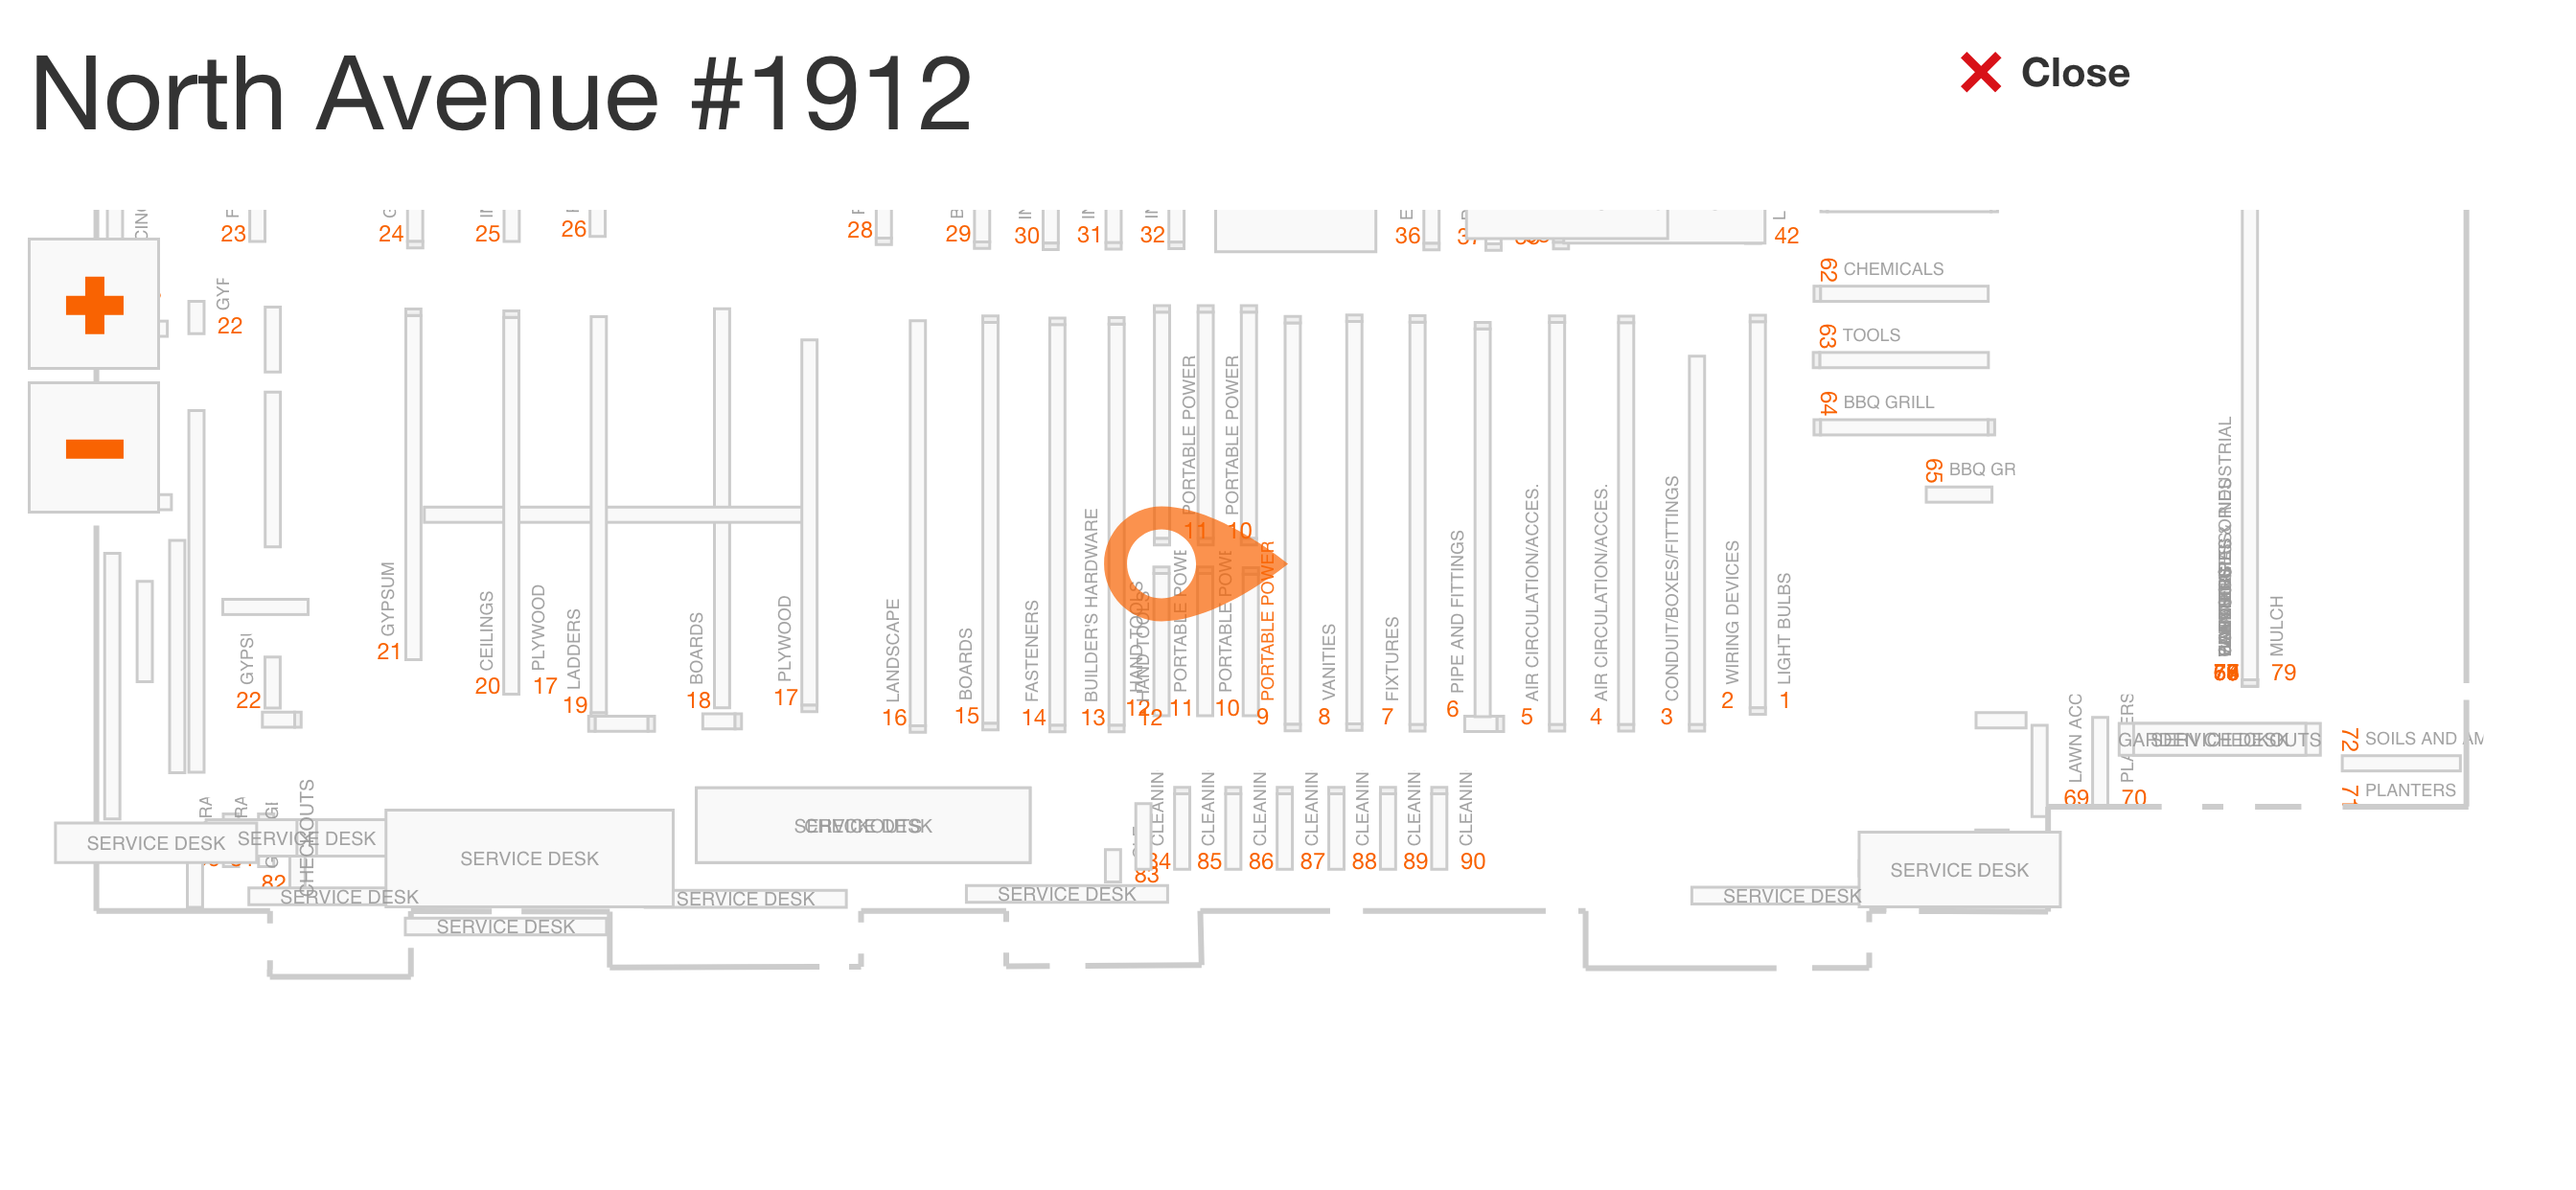
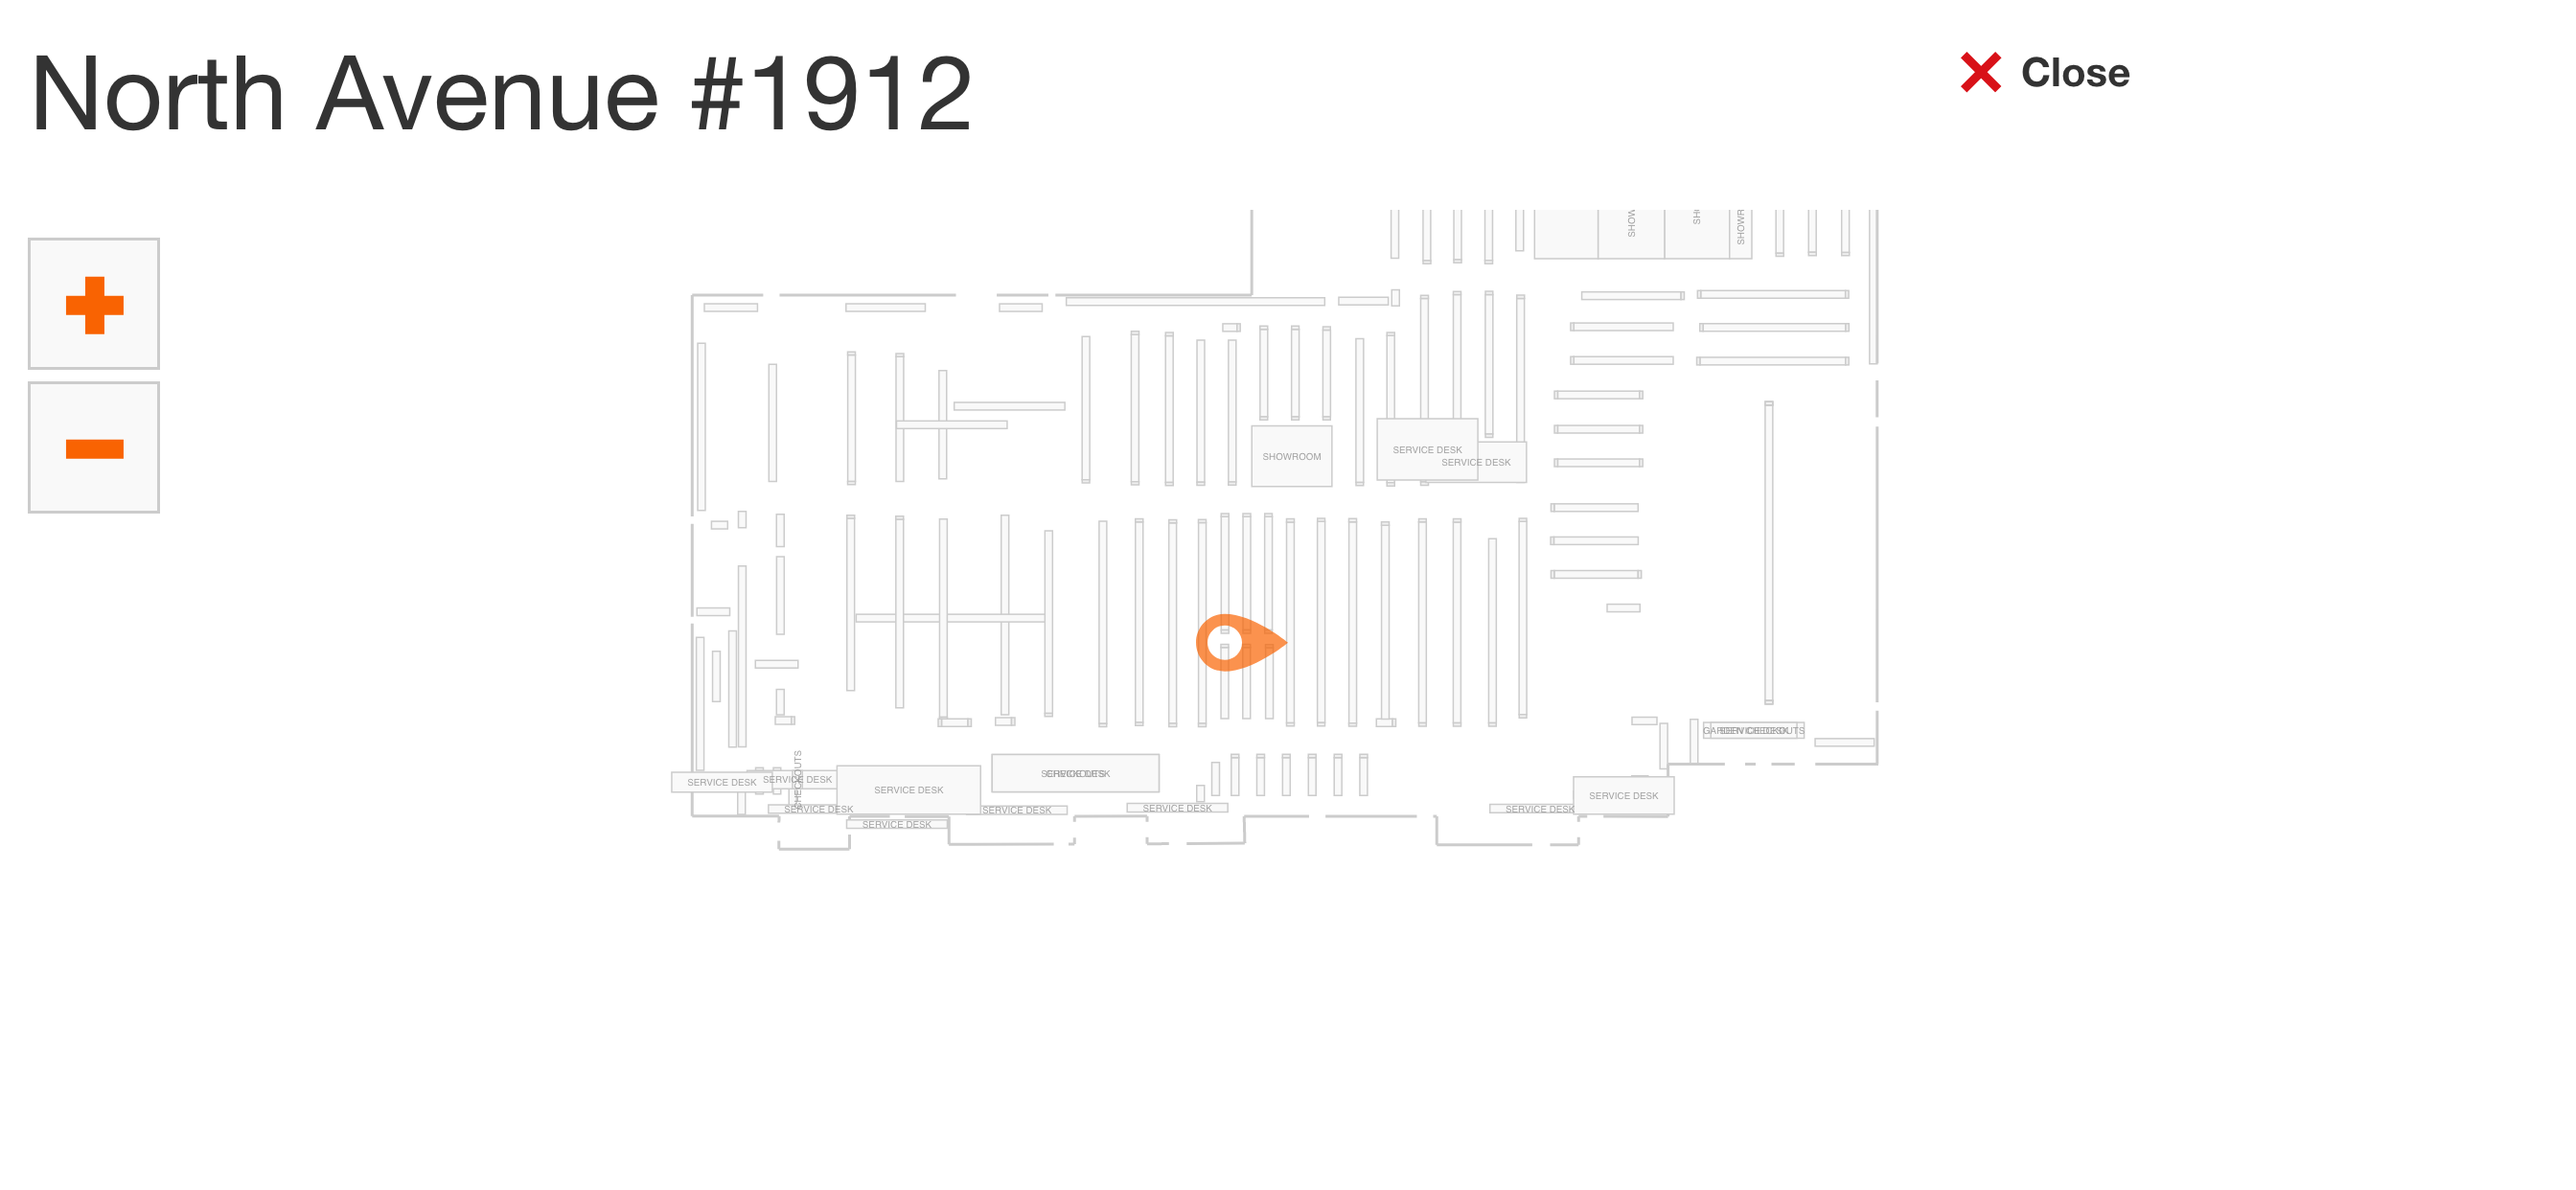
takes storeNumber input variable

diff --git a/scraper.js b/scraper.js
@@ -10,7 +10,7 @@ puppeteer.launch({ headless: false }).then(async browser => {
   let cartUrl =
     'https://www.homedepot.com/mycart/home?userId=cd14e1db-18d4-4f32-9f20-49a9814b2cc8&customerId=cd14e1db-18d4-4f32-9f20-49a9814b2cc8&sharedCartId=HL100097460525?cm_mmc=ecc-_-THD_SHARE_CART__V1_M1_CA-_-VIEW_CART#';
 
-  let storeNumber = 1912;
+  let storeNumber = '1912';
 
   // establish cart history by navigating to cart url
   await page.goto(cartUrl);
@@ -20,7 +20,7 @@ puppeteer.launch({ headless: false }).then(async browser => {
   await page.click('#myStoreMobile > a > span > div');
   await page.waitForSelector('#myStore-formInput');
   await page.focus('#myStore-formInput');
-  await page.keyboard.type('1912');
+  await page.keyboard.type(storeNumber);
   // await page.$eval('#myStore-formInput', input => (input.value = storeNumber));
   await page.keyboard.press('Enter');
   // await page.click('img.localization__icn--search');
@@ -65,7 +65,7 @@ puppeteer.launch({ headless: false }).then(async browser => {
     await page.waitForNavigation({ waitUntil: 'domcontentloaded' });
 
     // zoom out 1x store layout
-    // await page.click('rect.minus-box');
+    await page.click('rect.minus-box');
 
     // screenshot the store map
     await page.screenshot({ path: `test${screenshotCount}.png` });
